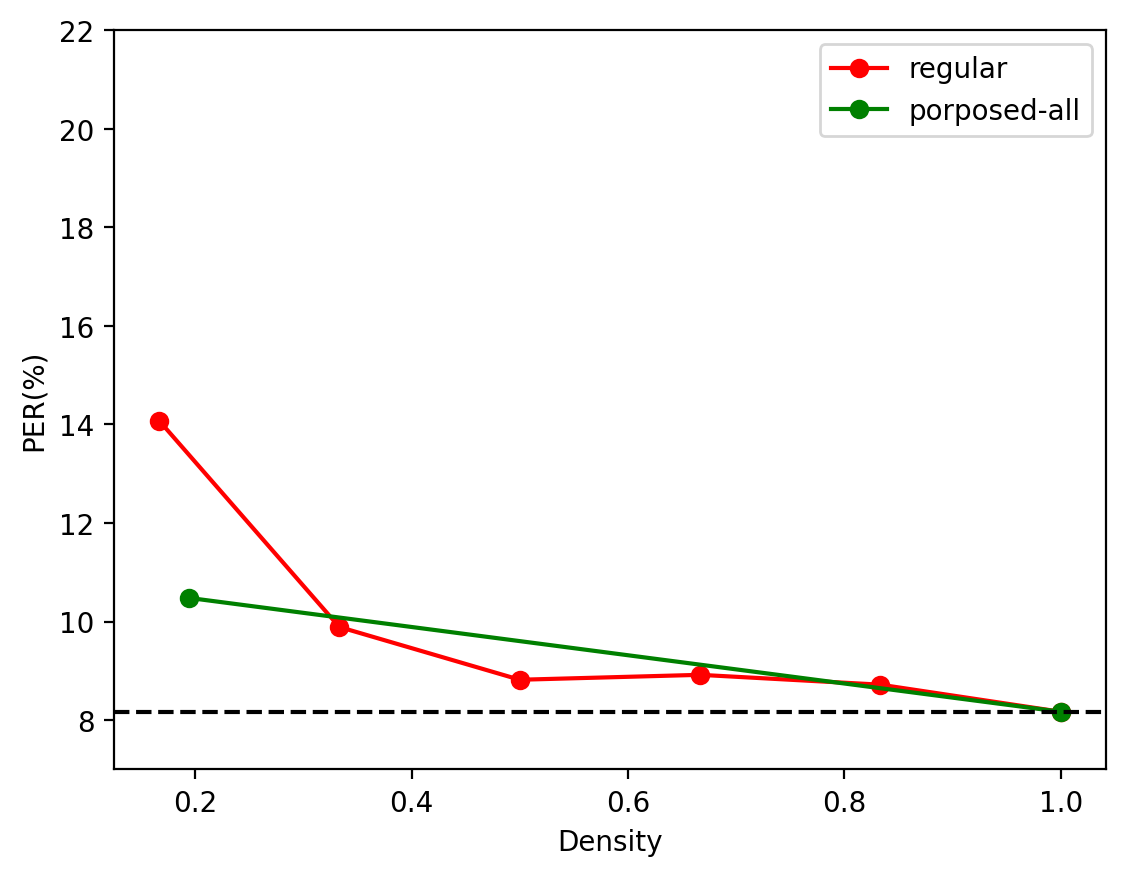
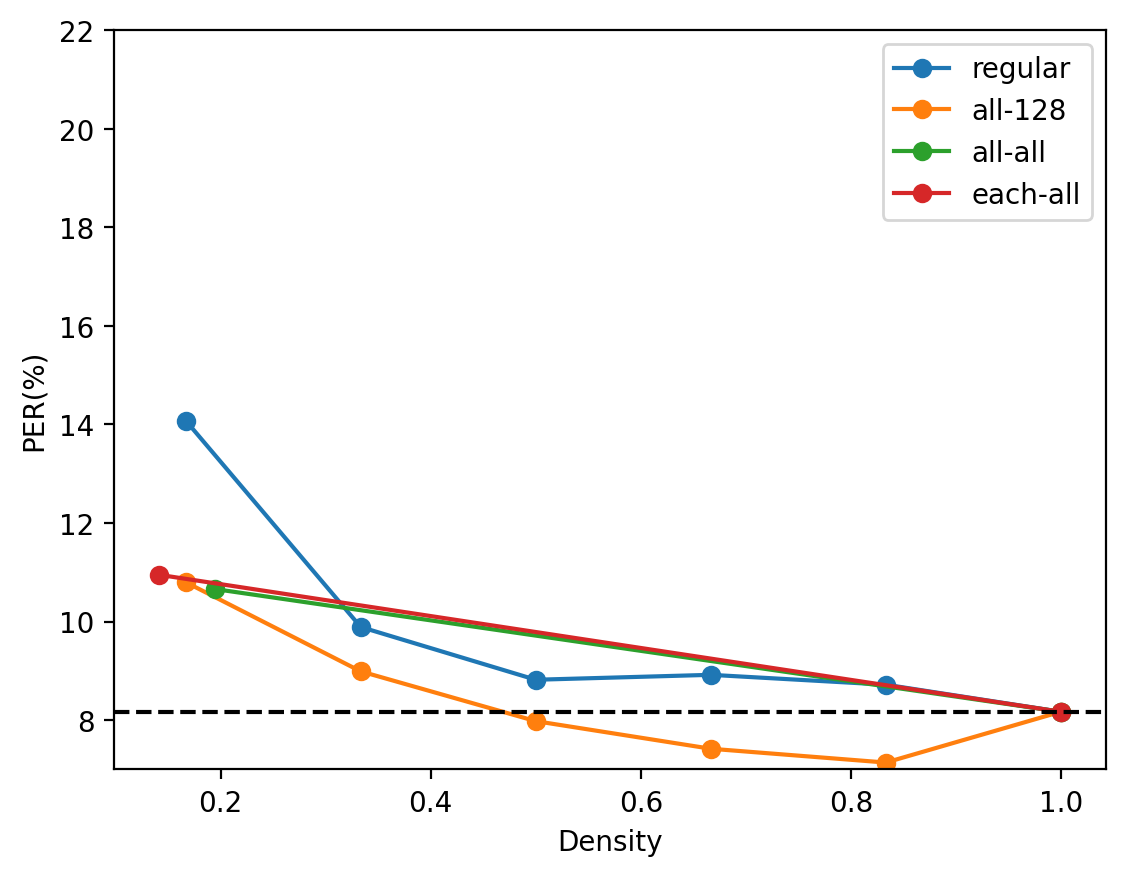
add downstream task

diff --git a/reproduce_figure/draw.py b/reproduce_figure/draw.py
@@ -279,17 +279,22 @@ def row_pruning_regular_n_ps_keys():
     plt.savefig('fig/row-pruning-regular-n-ps-keys.png', bbox_inches='tight', dpi=200)
 
 def row_pruning_pr():
-    # methods = ['regular', 'proposed-128', 'proposed-all']
-    methods = ['regular', 'proposed-all']
+    methods = ['regular', 'all-128', 'all-all', 'each-all']
     per = {
         'regular': [14.08, 9.89, 8.82, 8.92, 8.72, 8.17],
-        'proposed-128': [],
-        'proposed-all': [10.48, 8.17]
+        'all-128': [10.80, 8.99, 7.98, 7.42, 7.14, 8.17],
+        'all-all': [10.66, 8.17],
+        'each-all': [10.95, 8.17],
+        'topline': [6.25, 2.42],
+        'topline2': [5.77, 8.17]
     }
     rows = {
         'regular': [512, 1024, 1536, 2048, 2560, 3072],
-        'proposed-128': [512, 1024, 1536, 2048, 2560, 3072],
-        'proposed-all': [598, 3072]
+        'all-128': [512, 1024, 1536, 2048, 2560, 3072],
+        'all-all': [598, 3072],
+        'each-all': [434, 3072],
+        'topline': [512, 3072],
+        'topline2': [512, 3072],
     }
     # Calculate density 
     D = 3072 
@@ -298,16 +303,21 @@ def row_pruning_pr():
         density[k] = [i/D for i in v]
 
     colors = {
-        'regular': 'red',
-        'proposed-128': 'blue',
-        'proposed-all': 'green'
+        'regular': 'C0',
+        'all-128': 'C1',
+        'all-all': 'C2',
+        'each-all': 'C3',
+        'topline': 'C4',
+        'topline2': 'C5',
     }
     labels = {
         'regular': 'regular',
-        'proposed-128': 'proposed-128',
-        'proposed-all': 'porposed-all'
+        'all-128': 'all-128',
+        'all-all': 'all-all',
+        'each-all': 'each-all',
+        'topline': 'Oracle',
+        'topline2': 'topline2',
     }
-
     for m in methods:
         plt.plot(density[m], per[m], label=labels[m], color=colors[m], marker='o')
     plt.legend()
@@ -318,17 +328,22 @@ def row_pruning_pr():
     plt.savefig('fig/row-pruning-pr.png', bbox_inches='tight', dpi=200)
 
 def row_pruning_sid():
-    # methods = ['regular', 'proposed-128', 'proposed-all']
-    methods = ['regular', 'proposed-all']
+    methods = ['regular', 'all-128', 'all-all', 'each-all']
     acc = {
         'regular': [51.04, 54.93, 59.77, 60.35, 62.63, 63.96],
-        'proposed-128': [],
-        'proposed-all': [58.24, 63.96]
+        'all-128': [54.10, 55.41, 59.21, 60.98, 62.71, 63.96],
+        'all-all': [58.89, 63.96],
+        'each-all': [59.37, 63.96],
+        'topline': [73.36, 81.99], # Finetuning + Finetuning
+        'topline2': [24.33, 63.96] # Fix Upstream + Finetuning
     }
     rows = {
         'regular': [512, 1024, 1536, 2048, 2560, 3072],
-        'proposed-128': [512, 1024, 1536, 2048, 2560, 3072],
-        'proposed-all': [598, 3072]
+        'all-128': [512, 1024, 1536, 2048, 2560, 3072],
+        'all-all': [598, 3072],
+        'each-all': [434, 3072],
+        'topline': [512, 3072],
+        'topline2': [512, 3072],
     }
     # Calculate density 
     D = 3072 
@@ -336,14 +351,20 @@ def row_pruning_sid():
     for k, v in rows.items():
         density[k] = [i/D for i in v]
     colors = {
-        'regular': 'red',
-        'proposed-128': 'blue',
-        'proposed-all': 'green'
+        'regular': 'C0',
+        'all-128': 'C1',
+        'all-all': 'C2',
+        'each-all': 'C3',
+        'topline': 'C4',
+        'topline2': 'C5',
     }
     labels = {
         'regular': 'regular',
-        'proposed-128': 'proposed-128',
-        'proposed-all': 'porposed-all'
+        'all-128': 'all-128',
+        'all-all': 'all-all',
+        'each-all': 'each-all',
+        'topline': 'Oracle',
+        'topline2': 'topline2',
     }
     for m in methods:
         plt.plot(density[m], [100-i for i in acc[m]], label=labels[m], color=colors[m], marker='o')
@@ -385,6 +406,62 @@ def values_tsne():
     plt.title(f'Layer 8')
     plt.savefig('fig/values-tsne.png', bbox_inches='tight', dpi=200)
 
+def mds_phoneme(phone_name):
+    v_data_2d = np.load('data/mds-phoneme-2d.npy')
+    color = ['red', 'blue', 'green']
+    label = ['vowels', 'voiced-consonants', 'unvoiced-consonants']
+    num_type = [15, 15, 9]
+    acc = 0 
+    for idx, n in enumerate(num_type):
+        plt.scatter(v_data_2d[acc:acc+n,0], v_data_2d[acc:acc+n,1], c=color[idx], label=label[idx])
+        acc += n 
+    for idx, name in enumerate(phone_name):
+        plt.annotate(name, (v_data_2d[idx,0],v_data_2d[idx,1]))
+    plt.legend(loc='upper right', fontsize=6)
+    plt.axis('off')
+    plt.title(f'Layer 8')
+    plt.savefig('fig/phone.png', bbox_inches='tight', dpi=200)
+    plt.clf()
+
+# def sort_phoneme_by_type(phone_name):
+#     phoneme_type = {
+#         'vowel': {
+#             'front-vowels': ['IY', 'IH', 'EH', 'AE'],
+#             'central-vowels': ['AH', 'ER', 'UH'],
+#             'back-vowels': ['UW', 'AO', 'AA'],
+#             'diphthongs': ['EY', 'AY', 'OW', 'OY', 'AW'],
+#         },
+#         # 'voiced-consonants': {
+
+#         # },
+#         # 'unvoiced-consonants': {
+
+#         # }
+#     }
+#     phone_idx = []
+#     for k, v in phoneme_type['vowel'].items():
+#         for vv in v:
+            
+
+# def phoneme_tree():
+#     phone_name = ['AH', 'IH', 'IY', 'EH', 'ER', 'AE', 'AY', 'EY', 'AO', 'AA', 'OW', 'UW', 'AW', 'UH', 'OY', 'N', 'D', 'R', 'L', 'DH', 'M', 'Z', 'W', 'V', 'B', 'NG', 'G', 'Y', 'JH', 'ZH', 'T', 'S', 'K', 'HH', 'F', 'P', 'SH', 'TH', 'CH']
+#     phoen_idx, num_type = sort_phoneme_by_type(phone_name)
+#     v_data_2d = np.load('data/mds-phoneme-2d.npy')
+#     color = ['red', 'blue', 'green']
+#     label = ['vowels', 'voiced-consonants', 'unvoiced-consonants']
+#     # num_type = [15, 15, 9]
+#     acc = 0 
+#     for idx, n in enumerate(num_type):
+#         plt.scatter(v_data_2d[acc:acc+n,0], v_data_2d[acc:acc+n,1], c=color[idx], label=label[idx])
+#         acc += n 
+#     for idx, name in enumerate(phone_name):
+#         plt.annotate(name, (v_data_2d[idx,0],v_data_2d[idx,1]))
+#     plt.legend(loc='upper right', fontsize=6)
+#     plt.axis('off')
+#     plt.title(f'Layer 8')
+#     plt.savefig('fig/phone.png', bbox_inches='tight', dpi=200)
+#     plt.clf()
+
 if __name__ == '__main__':
     parser = argparse.ArgumentParser()
     parser.add_argument('-m', '--mode', 
@@ -392,7 +469,7 @@ if __name__ == '__main__':
                 'model_compare', 'layer_n_ps_compare',
                 'venn_ps_keys', 'row_pruning_regular_n_ps_keys',
                 'row_pruning_pr', 'row_pruning_sid', 'match_prob',
-                'values_tsne']
+                'values_tsne', 'phoneme_tree']
             ,help='Mode of drawing figure')
     args = parser.parse_args()
     eval(args.mode)()
